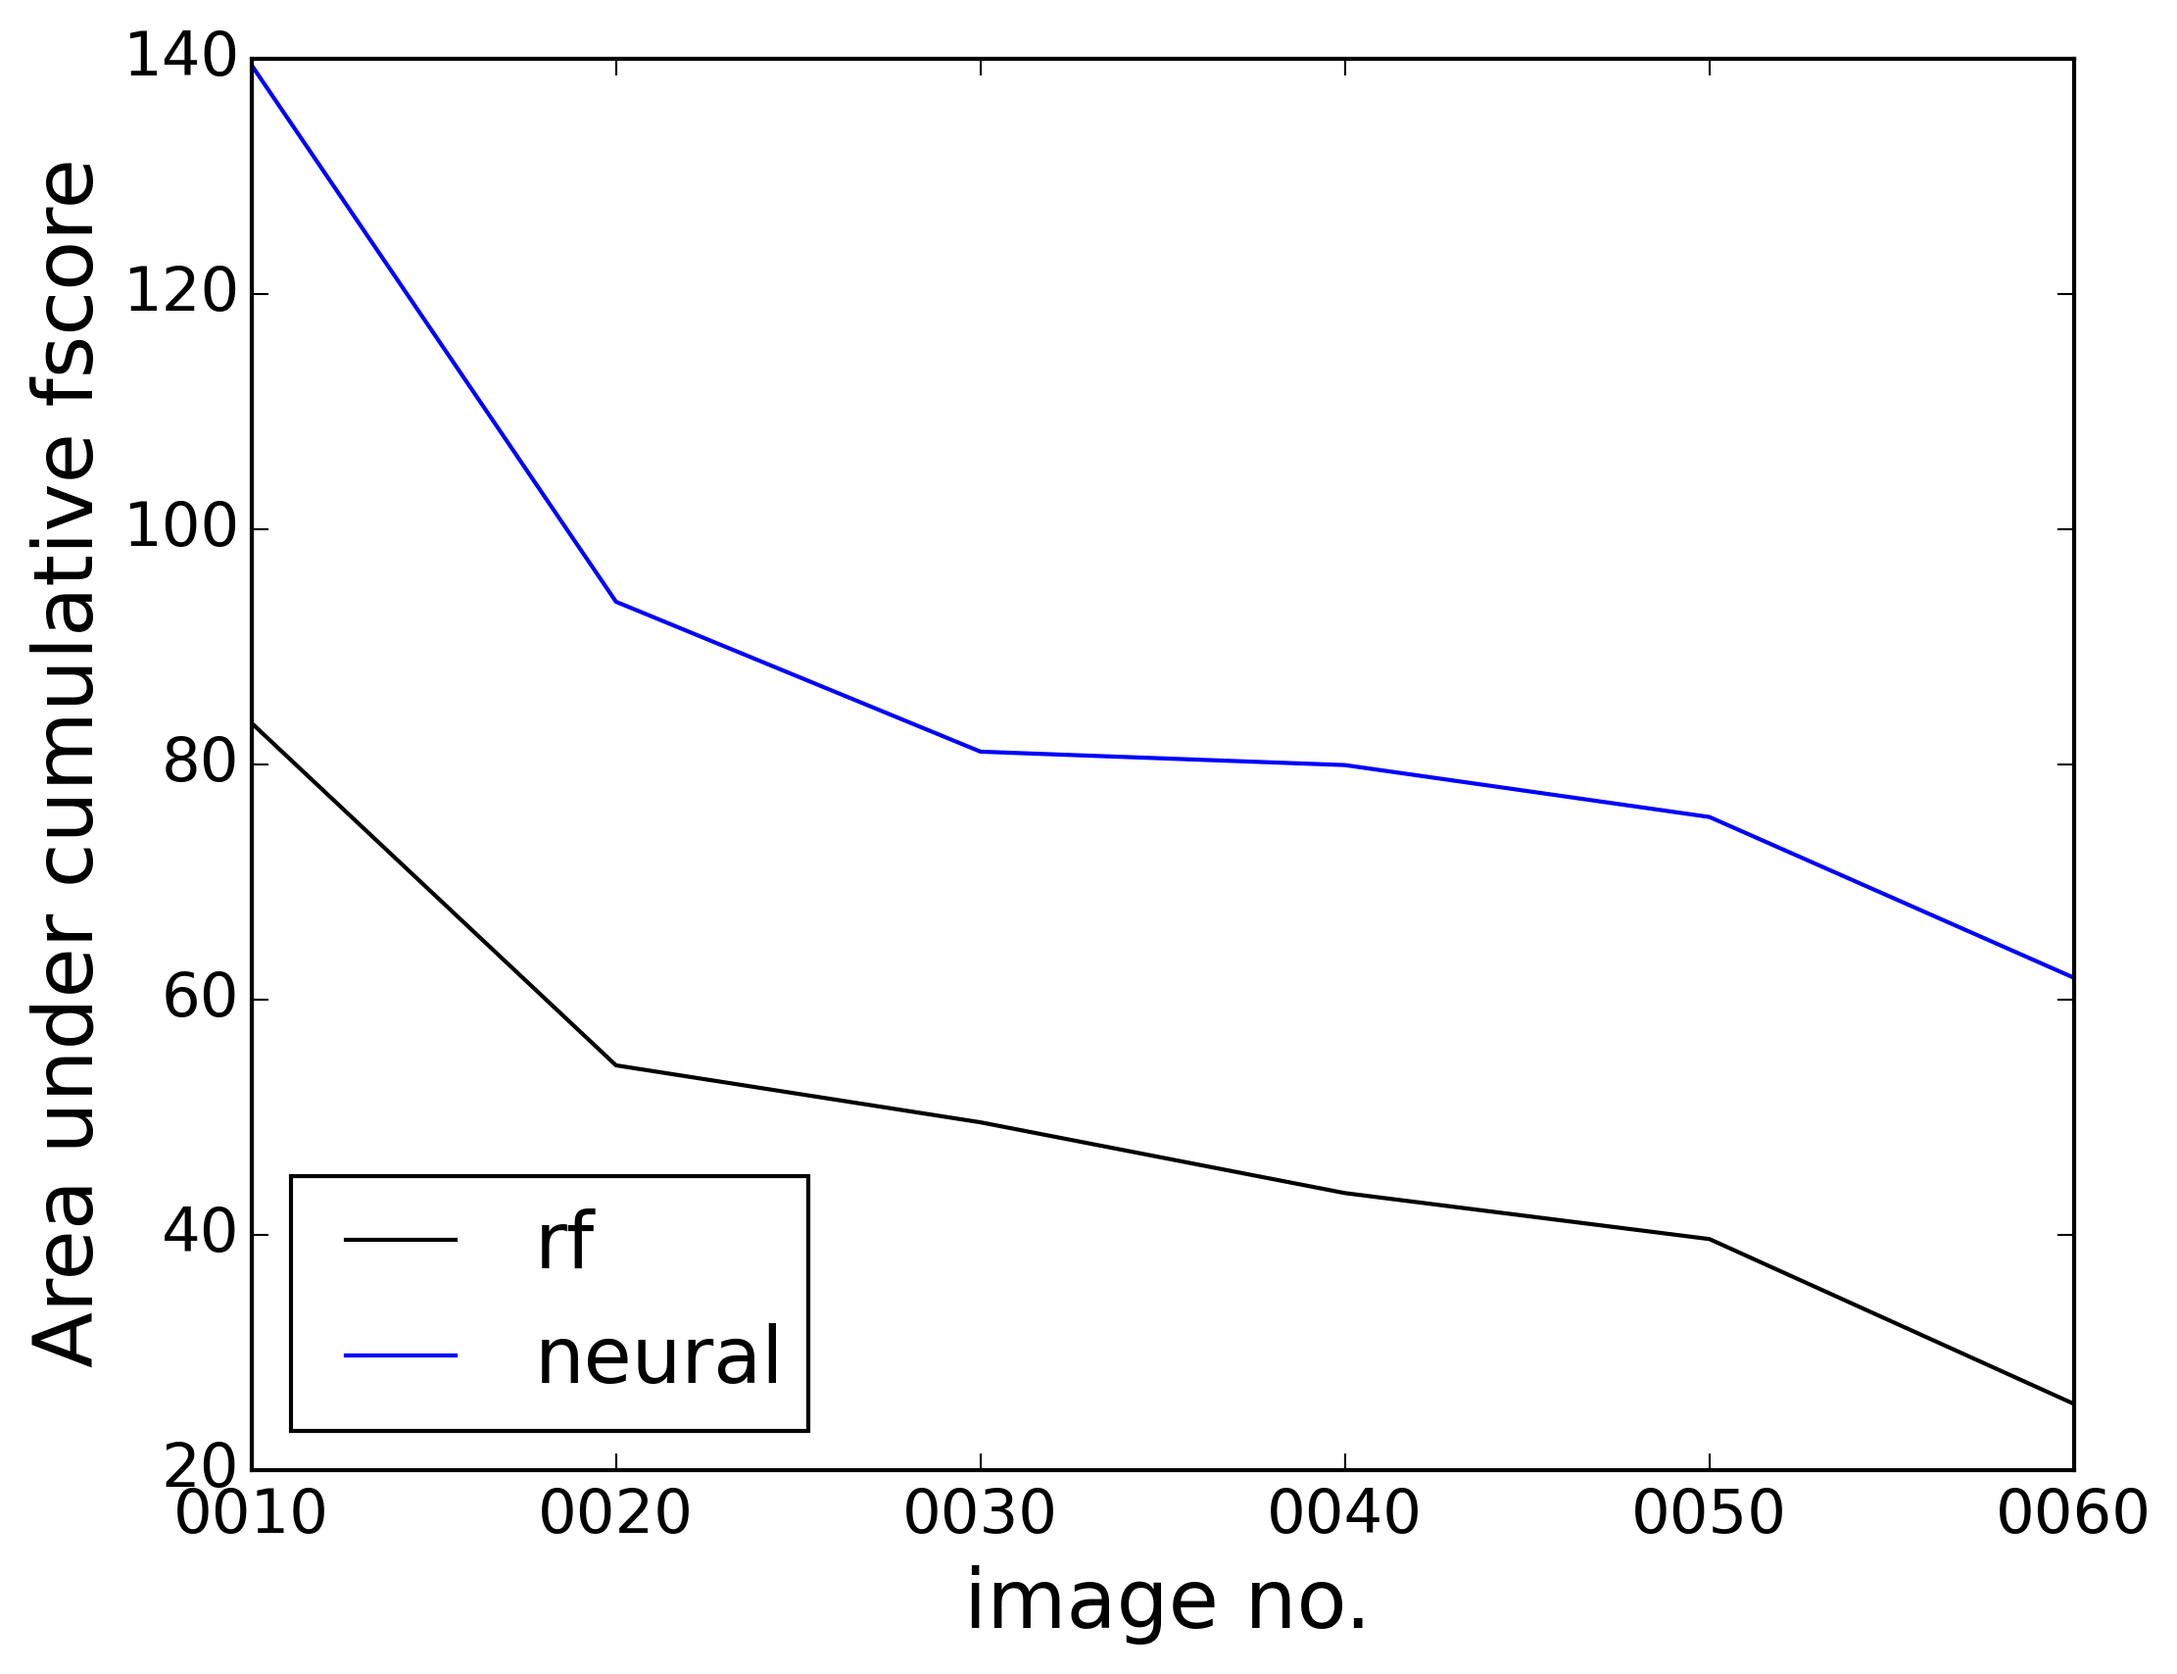
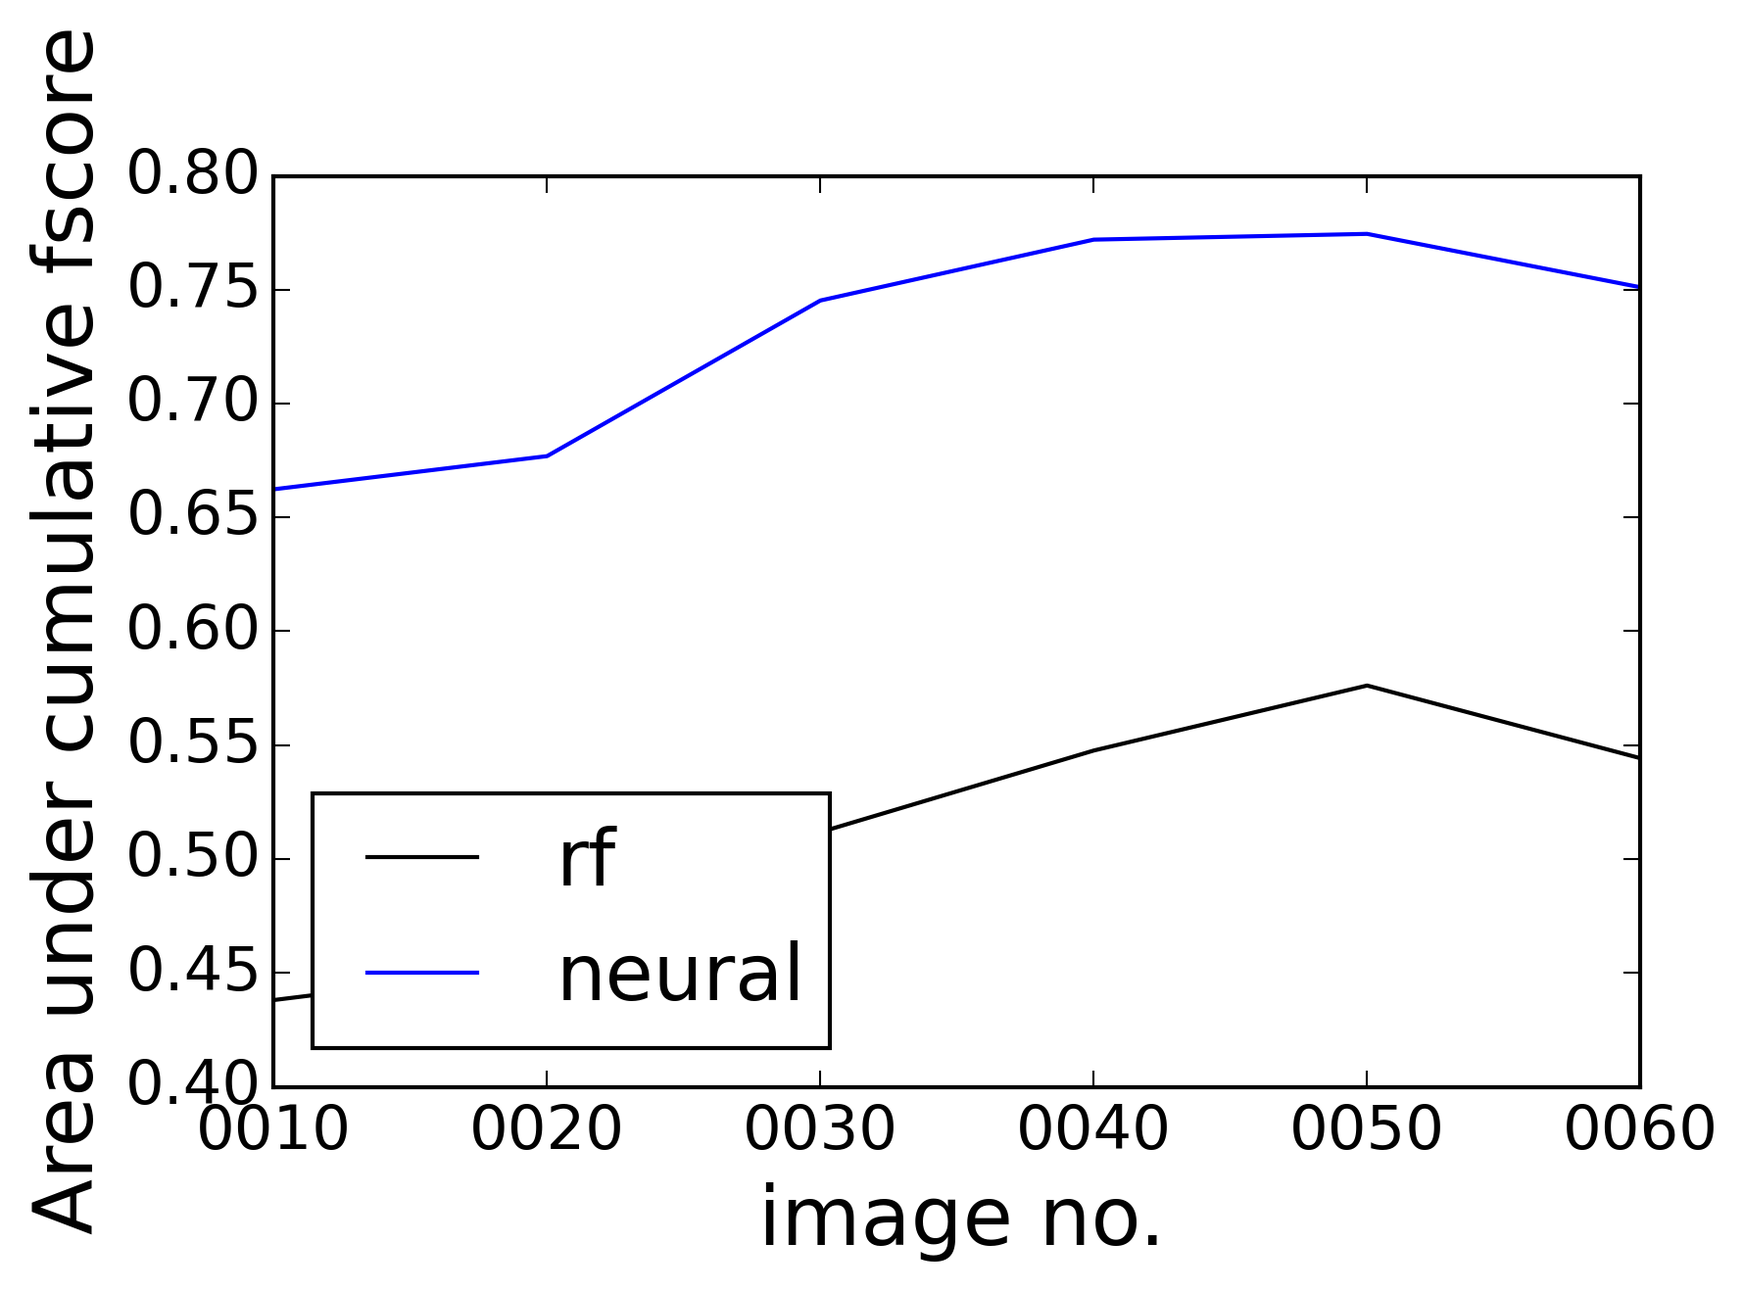
added new

diff --git a/segevaluation2.py b/segevaluation2.py
@@ -1,5 +1,12 @@
 # -*- coding: utf-8 -*-
 """
+Created on Sat May 30 16:24:28 2015
+
+@author: root
+"""
+
+# -*- coding: utf-8 -*-
+"""
 Created on Thu May 28 13:24:26 2015
 
 @author: saj
@@ -108,7 +115,7 @@ for netcount in range(np.shape(testfiles)[0] ):
     
     # count here
     colorval = ['b','g','r','c','m','k']
-    plt.figure()
+#    plt.figure()
     rftest = []
     ntest = []
     for imgcount in range(np.shape(nntestfiles)[0]):
@@ -121,7 +128,7 @@ for netcount in range(np.shape(testfiles)[0] ):
         rfseg = cv2.imread(glob.glob(rffolder + '*'+network+'*'+imagename+'*')[0],cv2.CV_LOAD_IMAGE_UNCHANGED)
         neuralseg = cv2.imread(glob.glob(neuralfolder + '*'+network+'*'+imagename+'*')[0],cv2.CV_LOAD_IMAGE_UNCHANGED)
         #gttrainlab = labelgt(gttrain)
-        gttestlab = labelgt(gttest)
+        gttestlab = ((gttest==1)+(gttest==2))*1
         
         
         #%% testset performance
@@ -135,8 +142,13 @@ for netcount in range(np.shape(testfiles)[0] ):
 #        neuralseg = cv2.imread(nntestfiles[ii], cv2.CV_LOAD_IMAGE_UNCHANGED)
         neuralseg = neuralseg[40:neuralseg.shape[0]-40, 40+104:neuralseg.shape[1]-40-104, :]
         
-        rfseglab = labelSegimg(rfseg)
-        neuralseglab = labelSegimg(neuralseg)
+#        rfseglab = labelSegimg(rfseg)
+        rfseglab = np.argmax(rfseg,2)
+        rfseglab = ((rfseglab==2) + (rfseglab==0) )*1
+
+#        neuralseglab = labelSegimg(neuralseg)
+        neuralseglab = np.argmax(neuralseg,2)
+        neuralseglab = ((neuralseglab==2) + (neuralseglab==0) )*1
         
         rowdiff = gttestlab.shape[0]-rfseg.shape[0]
         coldiff = gttestlab.shape[1]-rfseg.shape[1]
@@ -160,12 +172,12 @@ for netcount in range(np.shape(testfiles)[0] ):
         
         
         #, plt.plot(xval, ft1, label='outimg','')#, xval, ft2, 'b', xval, ft3, 'r', xval, ft4, 'g'),plt.title('F-score Elf phase'),plt.legend(('line1','line2','line3','line4'),('outimg','filterout','smoothout','microbetracker')),plt.show()
-        line1, = plt.plot(xval, ftrf, label='randomforest',color = colorval[imgcount], linestyle = '--', linewidth = LINEWIDTH)
-        line2, = plt.plot(xval, ftneural, label='neural',color = colorval[imgcount], linestyle = '-', linewidth = LINEWIDTH)
+#        line1, = plt.plot(xval, ftrf, label='randomforest',color = colorval[imgcount], linestyle = '--', linewidth = LINEWIDTH)
+#        line2, = plt.plot(xval, ftneural, label='neural',color = colorval[imgcount], linestyle = '-', linewidth = LINEWIDTH)
     #%%
-    axes = plt.gca()
-    axes.set_ylim([0,1])
-    plt.savefig(plotloc+network+'fscore.png',bbox_inches='tight',dpi=300)
+#    axes = plt.gca()
+#    axes.set_ylim([0,1])
+#    plt.savefig(plotloc+network+'fscore.png',bbox_inches='tight',dpi=300)
     
     rftest = np.array(rftest)
     ntest = np.array(ntest)
